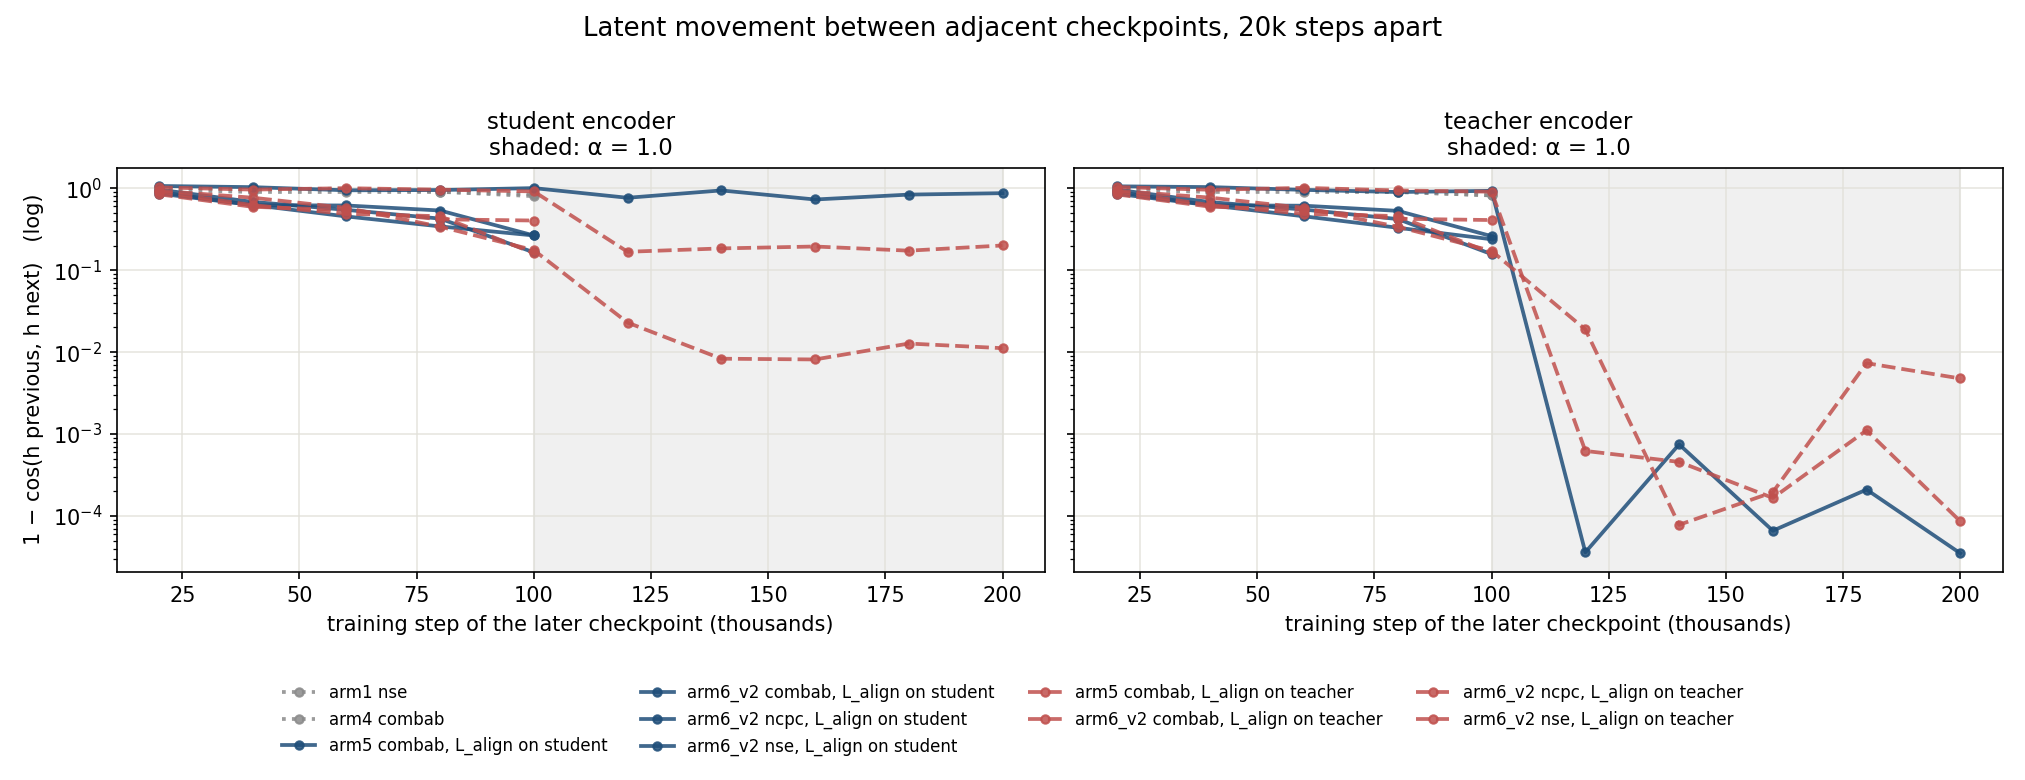
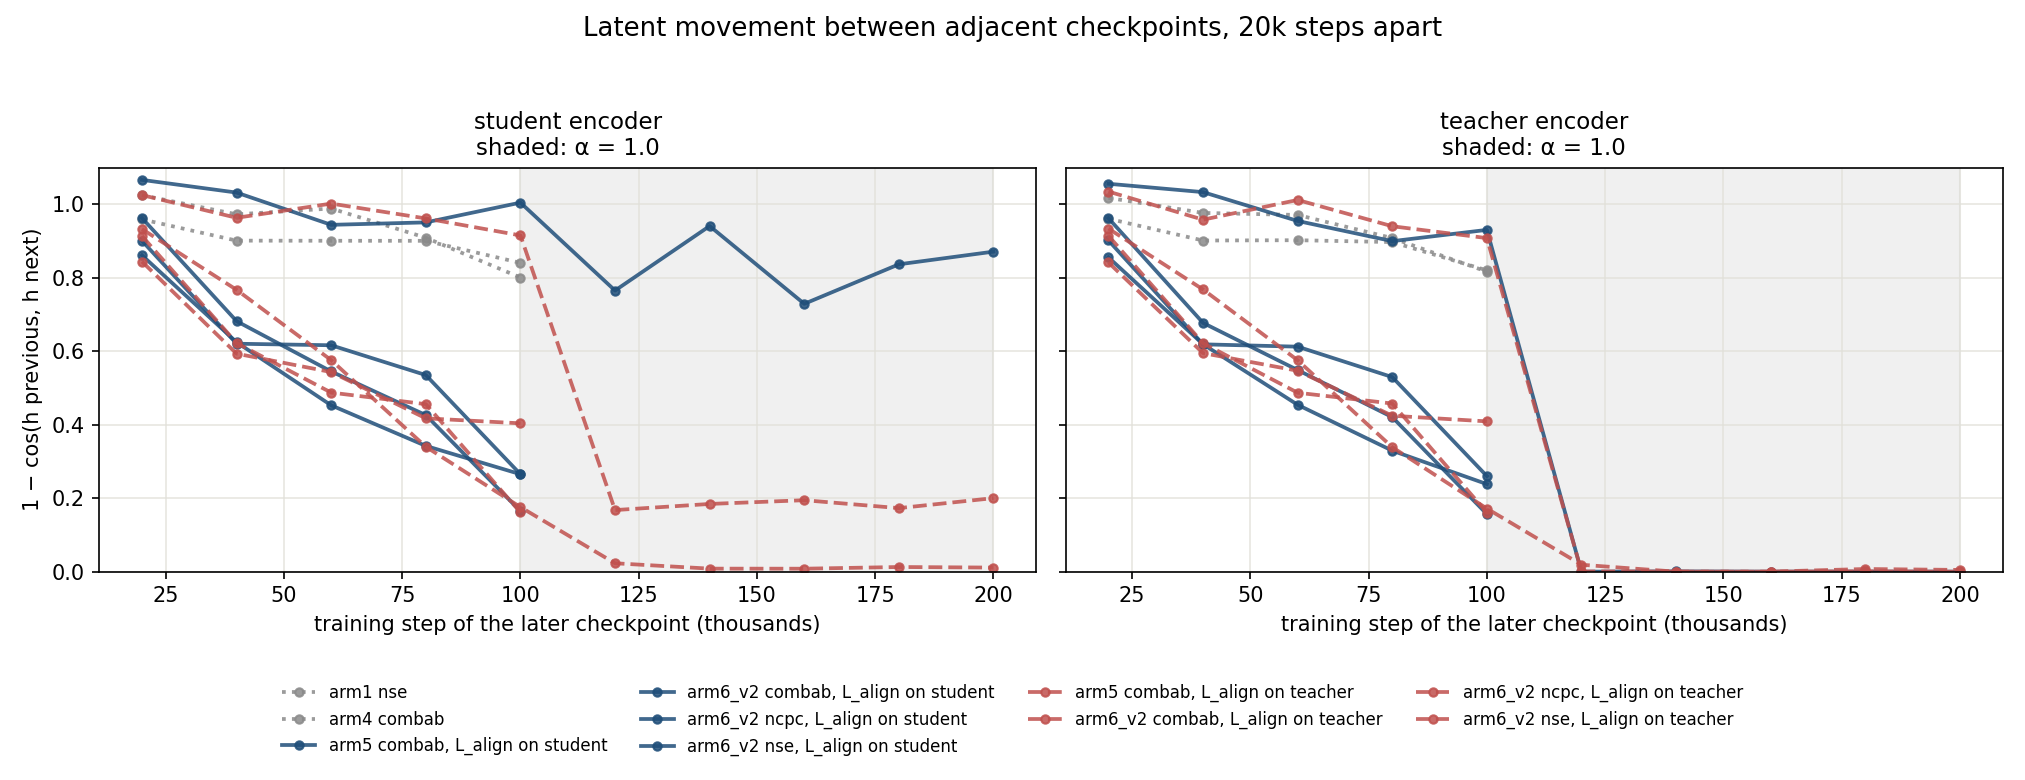
report: linear y axis on both latent-movement panels, per-domain split into the body
Past step 100k the schedule holds alpha at 1.0, so the teacher is frozen by
construction. A log axis gave that residual movement (3.5e-5 to 1.9e-2) most of
the panel height. A linear axis from 0 to 1.1 holds every point on both panels
and shows the movement going to zero.

The two per-domain radar charts are deliverable 5 of the card, so they move out
of the annex and into the body. The annex now holds only the head-seed
replicates, which the card does not request.

diff --git a/experiments/2026-08-04_ema_sched_ladder/scripts/plot_latent_movement.py b/experiments/2026-08-04_ema_sched_ladder/scripts/plot_latent_movement.py
@@ -73,11 +73,11 @@ def main() -> int:
                     color=TARGET_COLOR[tgt], ls=styles[tgt], lw=1.8,
                     marker="o", ms=4, alpha=0.85, label=label(cell))
         ax.axvspan(RAMP_END / 1000, 200, color="#9a9a9a", alpha=0.14, zorder=0)
-        ax.set_yscale("log")
+        ax.set_ylim(0, 1.1)
         ax.set_xlabel("training step of the later checkpoint (thousands)")
         ax.set_title(f"{title}\nshaded: α = 1.0", fontsize=11)
         ax.grid(True, color="#e1e0d9", alpha=0.8)
-    axes[0].set_ylabel("1 − cos(h previous, h next)   (log)")
+    axes[0].set_ylabel("1 − cos(h previous, h next)")
     handles, labels = axes[0].get_legend_handles_labels()
     fig.legend(handles, labels, fontsize=8, frameon=False, ncol=4,
                loc="lower center", bbox_to_anchor=(0.5, 0.012))

diff --git a/reports/2026-08-04_ema_sched_ladder/ema_sched_ladder.md b/reports/2026-08-04_ema_sched_ladder/ema_sched_ladder.md
@@ -32,9 +32,15 @@ Over the 22 stops that carry both heads the two encoders differ by at most 0.037
 
 Past step 100k the teacher latent moves by at most 0.019 per 20k steps, against 0.157 to 1.056 before it, while the student latent keeps moving in two of the three runs that reach 200k (means 0.829 and 0.184) and stops in the third (mean 0.013).
 
+## 6. Per-domain split
+
+![Per-domain GM-Relative MASE, this study's entries only: five lowest entries, and the entries that reached backbone 200k](plots/domain_radar.png)
+
+An entry is one run plus one head; every entry drawn beats seasonal naive on Sales and Nature and loses to it on the other five domains.
+
 ## Annex
 
-The card specifies one head seed. Replicate seeds and the per-domain split were run beyond it; this section holds them.
+The card specifies one head seed. Replicate seeds were run beyond it; this section holds them.
 
 ### Head-seed replicates
 
@@ -60,12 +66,6 @@ Source: `results/seed_spread.csv`. Head seeds 20260722, 20260723 and 20260724, f
 | `arm6_v2 nse` | student | teacher | 1.3721 | 0.0043 | 0.0082 |
 | `arm6_v2 nse` | teacher | student | 1.3955 | 0.0037 | 0.0064 |
 | `arm6_v2 nse` | teacher | teacher | 1.3815 | 0.0149 | 0.0272 |
-
-### Per-domain split
-
-![Per-domain GM-Relative MASE, five lowest entries and the entries that reached backbone 200k](plots/domain_radar.png)
-
-An entry is one run plus one head; every entry drawn beats seasonal naive on Sales and Nature and loses to it on the other five domains. The panel draws this study's entries only, so it carries no fixed-0.9 comparison.
 
 ## Tables
 
